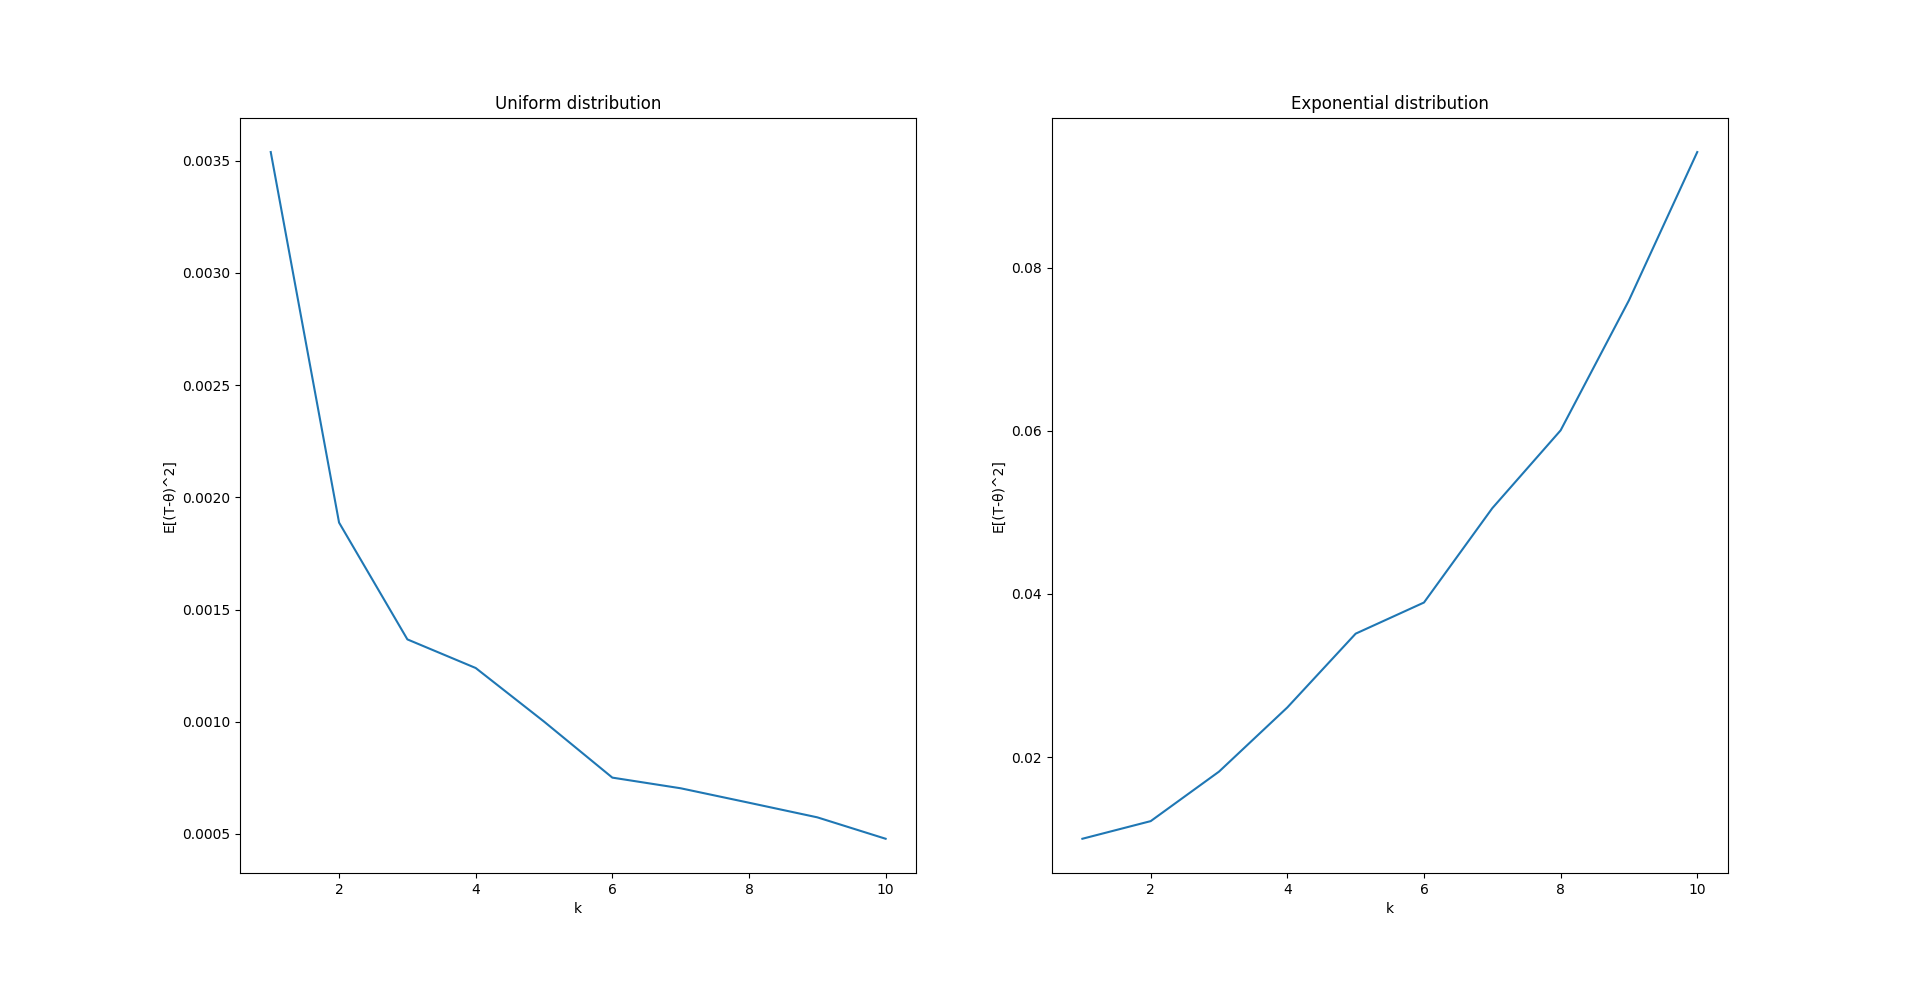
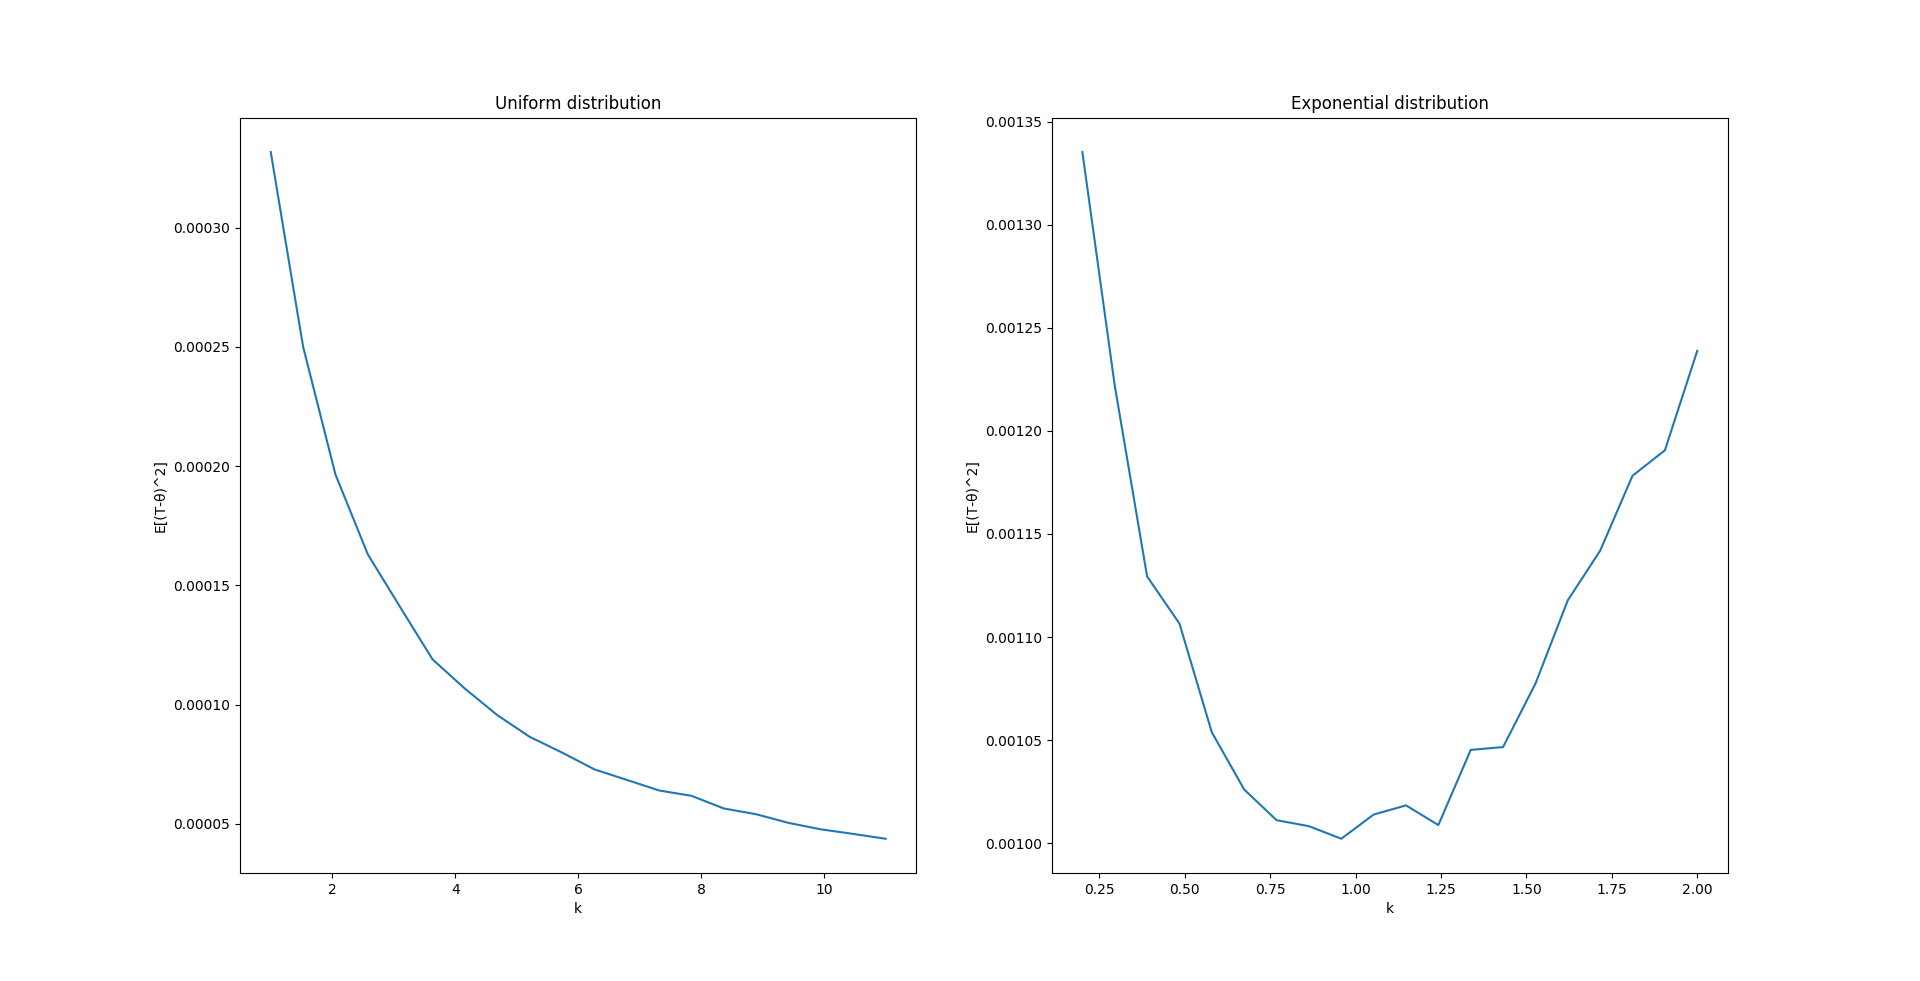
updated first hw

diff --git a/1.py b/1.py
@@ -4,8 +4,8 @@ import matplotlib.pyplot as plt
 import math
 
 
-SAMPLE_SIZE = 100
-N = 1000
+SAMPLE_SIZE = 1000
+N = 10000
 
 def moments_estimate_uniform(sample, k):
     return (sum(map(lambda x: x**k, sample)) * (k + 1) / len(sample))**(1. / k)
@@ -15,8 +15,7 @@ def moments_estimate_exponential(sample, k):
     return (sum(map(lambda x: x**k, sample)) / (len(sample) * math.gamma(k + 1)))**(1. / k)
     
 
-def plot_estimate_variance(distribution, estimator):
-    ks = range(1, 11);
+def plot_estimate_variance(distribution, estimator, ks):
     es = [np.mean([(estimator(distribution(size=SAMPLE_SIZE), k) - 1)**2 for _ in range(N)]) for k in ks]
     plt.plot(ks, es)
     plt.xlabel('k')
@@ -28,13 +27,13 @@ if __name__ == '__main__':
     plt.subplot(121)
 
     # uniform distribution
-    plot_estimate_variance(np.random.uniform, moments_estimate_uniform)
+    plot_estimate_variance(np.random.uniform, moments_estimate_uniform, np.linspace(1, 11, 20))
     plt.title('Uniform distribution')
 
     plt.subplot(122)
 
     # exponential distribution
-    plot_estimate_variance(np.random.exponential, moments_estimate_exponential)
+    plot_estimate_variance(np.random.exponential, moments_estimate_exponential, np.linspace(0.2, 2.0, 20))
     plt.title('Exponential distribution')
 
 
